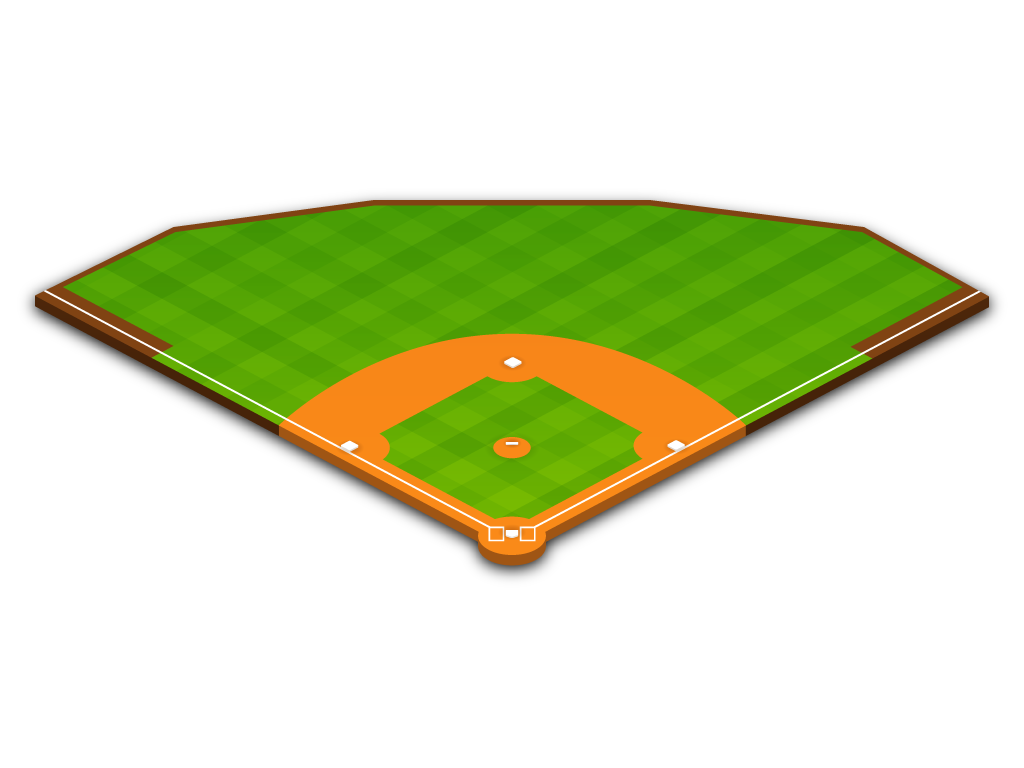
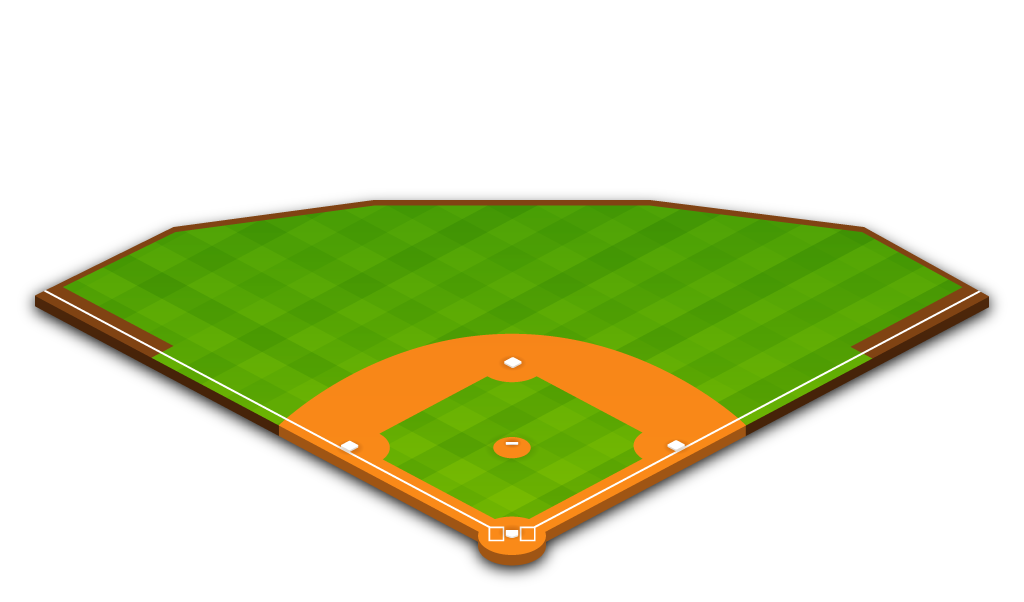
Adjust new field

diff --git a/www/index.html b/www/index.html
@@ -200,7 +200,7 @@
     </p>
     <hr>
     <div id="field">
-        <img src="img/baseball-field.png">
+        <img src="img/baseball-field-deluxe.png" alt="An illustration of a baseball field">
     </div>
 
 <!-- STATS TABLE STARTS HERE -->
@@ -527,7 +527,7 @@ slugger.init();
 </script>
 <style type="text/css">
 #field canvas {
-    background-image: url('img/baseball-field.png');
+    background-image: url('img/baseball-field-deluxe.png');
     background-repeat: no-repeat;
     background-color: #fafafa;
     background-position: center 0;
